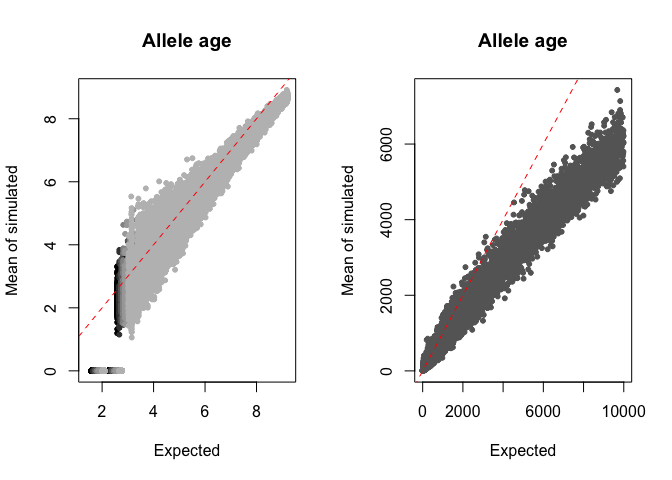
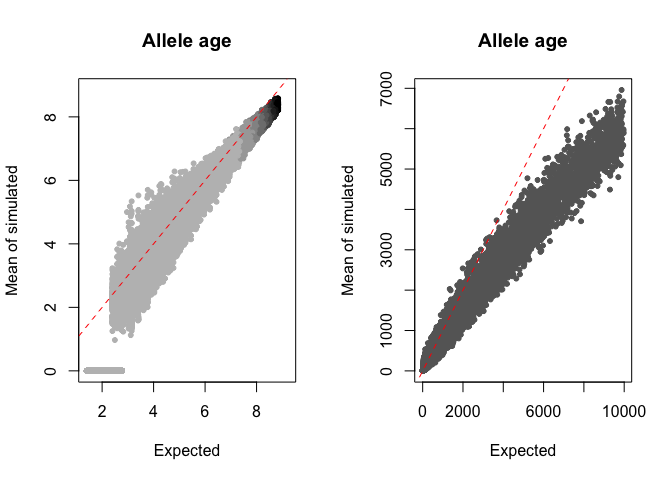
revisions to md for labmeeting - no major changes

diff --git a/simAlleleAge.md b/simAlleleAge.md
@@ -79,7 +79,7 @@ system.time(finalXl<-estimXl(Xl,gamma,ndraws=1000))
 ```
 
     ##    user  system elapsed 
-    ##   1.138   0.749   3.473
+    ##   1.098   0.648   1.793
 
 Now, I have to add an extra column indicating the \(\gamma\) value for
 each row (i.e., frequency).
@@ -346,7 +346,7 @@ abline(0,1,col='red',lty=2)
 ![](simAlleleAge_files/figure-gfm/unnamed-chunk-15-1.png)<!-- -->
 
 ``` r
-plot(log(finalXl[,4]),log(all.age),pch=20,col='grey40',xlab='Expected',ylab='Single draw')
+plot(log(finalXl[,4]),log(finalXl[,3]),pch=20,col='grey40',xlab='Expected',ylab='Single draw')
 abline(0,1,col='red',lty=2)
 ```
 
